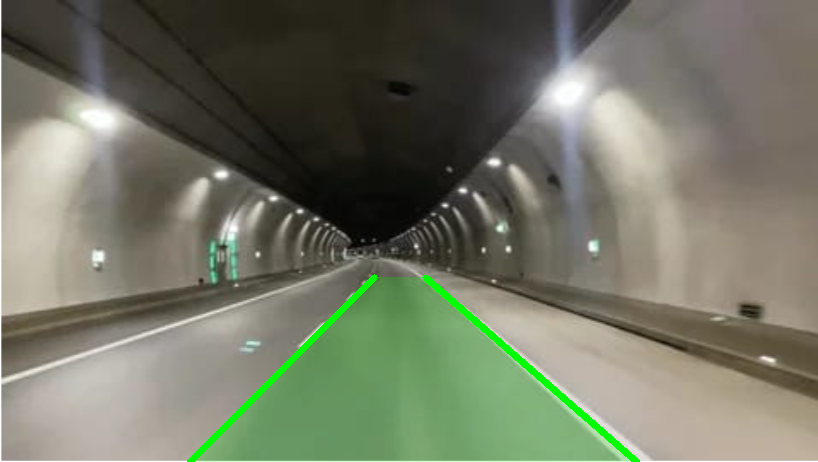
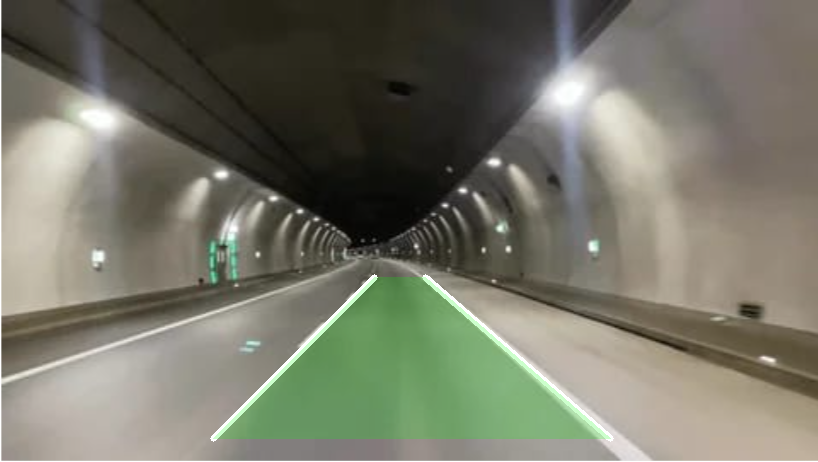
Complete Task 2 lane detection for all images

diff --git a/task2/lane_detection.py b/task2/lane_detection.py
@@ -1,120 +1,172 @@
 import cv2
 import numpy as np
+import os
 
-# Input image
-image = cv2.imread("input/road1.png")
+# Input and output folders
+input_folder = "input"
+output_folder = "output"
 
-if image is None:
-    print("Image not found!")
-    exit()
+# Create output folder if it doesn't exist
+os.makedirs(output_folder, exist_ok=True)
 
-# Make a copy for drawing
-result = image.copy()
+# Process all 10 road images
+for i in range(1, 11):
 
-# Convert image to grayscale
-gray = cv2.cvtColor(image, cv2.COLOR_BGR2GRAY)
+    extension = ".png" if i <= 8 else ".jpeg"
+    input_path = os.path.join(input_folder, f"road{i}{extension}")
+    output_path = os.path.join(output_folder, f"road{i}_detected.png")
 
-# Detect edges
-edges = cv2.Canny(gray, 50, 150)
+    print(f"\nProcessing road{i}.png...")
 
-# Get image dimensions
-height, width = image.shape[:2]
+    # Input image
+    image = cv2.imread(input_path)
 
-# Region of Interest (road area)
-mask = np.zeros_like(edges)
+    if image is None:
+        print(f"Image not found: {input_path}")
+        continue
 
-roi = np.array([[
-    (0, height),
-    (width, height),
-    (int(width * 0.60), int(height * 0.55)),
-    (int(width * 0.40), int(height * 0.55))
-]])
+    result = image.copy()
 
-cv2.fillPoly(mask, roi, 255)
+    # Grayscale
+    gray = cv2.cvtColor(image, cv2.COLOR_BGR2GRAY)
 
-# Keep only road-area edges
-roi_edges = cv2.bitwise_and(edges, mask)
+    # Edge detection
+    edges = cv2.Canny(gray, 50, 150)
 
-# Detect lane lines
-lines = cv2.HoughLinesP(
-    roi_edges,
-    1,
-    np.pi / 180,
-    threshold=50,
-    minLineLength=50,
-    maxLineGap=100
-)
+    # Image dimensions
+    height, width = image.shape[:2]
 
-left_lines = []
-right_lines = []
+    # Region of Interest
+    mask = np.zeros_like(edges)
 
-if lines is not None:
-    for line in lines:
-        x1, y1, x2, y2 = line
+    roi = np.array([[
+        (0, height),
+        (width, height),
+        (int(width * 0.60), int(height * 0.55)),
+        (int(width * 0.40), int(height * 0.55))
+    ]])
 
-        if x2 == x1:
-            continue
+    cv2.fillPoly(mask, roi, 255)
+    roi_edges = cv2.bitwise_and(edges, mask)
 
-        slope = (y2 - y1) / (x2 - x1)
+    # Hough Line Detection
+    lines = cv2.HoughLinesP(
+        roi_edges,
+        1,
+        np.pi / 180,
+        threshold=50,
+        minLineLength=50,
+        maxLineGap=100
+    )
 
-        if slope < -0.5:
-            left_lines.append((x1, y1, x2, y2))
+    left_lines = []
+    right_lines = []
 
-        elif slope > 0.5:
-            right_lines.append((x1, y1, x2, y2))
+    if lines is not None:
+        for line in lines:
+            x1, y1, x2, y2 = line
 
+            if x2 == x1:
+                continue
 
-def average_line(lines, height):
-    if not lines:
-        return None
+            slope = (y2 - y1) / (x2 - x1)
 
-    slopes = []
-    intercepts = []
+            if slope < -0.5:
+                left_lines.append((x1, y1, x2, y2))
 
-    for x1, y1, x2, y2 in lines:
-        slope = (y2 - y1) / (x2 - x1)
-        intercept = y1 - slope * x1
+            elif slope > 0.5:
+                right_lines.append((x1, y1, x2, y2))
 
-        slopes.append(slope)
-        intercepts.append(intercept)
+    # Calculate average lane line
+    def average_line(lines, height):
 
-    slope = np.mean(slopes)
-    intercept = np.mean(intercepts)
+        if not lines:
+            return None
 
-        # Line points
-    y1 = height
-    y2 = int(height * 0.60)
+        slopes = []
+        intercepts = []
 
-    x1 = int((y1 - intercept) / slope)
-    x2 = int((y2 - intercept) / slope)
+        for x1, y1, x2, y2 in lines:
 
-    return x1, y1, x2, y2
-# Get averaged left and right lane lines
-left_lane = average_line(left_lines, height)
-right_lane = average_line(right_lines, height)
+            if x2 == x1:
+                continue
 
-# Draw lanes and drivable area
-if left_lane is not None and right_lane is not None:
-    lx1, ly1, lx2, ly2 = left_lane
-    rx1, ry1, rx2, ry2 = right_lane
+            slope = (y2 - y1) / (x2 - x1)
+            intercept = y1 - slope * x1
 
-    # Draw two separate lane boundaries
-    cv2.line(result, (lx1, ly1), (lx2, ly2), (0, 255, 0), 6)
-    cv2.line(result, (rx1, ry1), (rx2, ry2), (0, 255, 0), 6)
+            slopes.append(slope)
+            intercepts.append(intercept)
 
-    # Drivable area - only translucent green
-    polygon = np.array([
-        [(lx1, ly1), (rx1, ry1),
-         (rx2, ry2), (lx2, ly2)]
-    ], dtype=np.int32)
+        if not slopes:
+            return None
 
-    overlay = result.copy()
-    cv2.fillPoly(overlay, polygon, (0, 255, 0))
+        slope = np.mean(slopes)
+        intercept = np.mean(intercepts)
 
-    result = cv2.addWeighted(overlay, 0.20, result, 0.80, 0)
+        y1 = int(height * 0.95)
+        y2 = int(height * 0.60)
 
-# Save result
-cv2.imwrite("output/road1_detected.png", result)
+        x1 = int((y1 - intercept) / slope)
+        x2 = int((y2 - intercept) / slope)
 
-print("Lane detection completed!")
-print("Output saved as output/road1_detected.png")
+        return x1, y1, x2, y2
+
+    # Get left and right lanes
+    left_lane = average_line(left_lines, height)
+    right_lane = average_line(right_lines, height)
+
+    # Draw lanes and drivable area
+    if left_lane is not None and right_lane is not None:
+
+        lx1, ly1, lx2, ly2 = left_lane
+        rx1, ry1, rx2, ry2 = right_lane
+
+        # Lane boundaries
+        cv2.line(
+            result,
+            (lx1, ly1),
+            (lx2, ly2),
+            (255, 255, 255),
+            5
+        )
+
+        cv2.line(
+            result,
+            (rx1, ry1),
+            (rx2, ry2),
+            (255, 255, 255),
+            5
+        )
+
+        # Drivable area
+        polygon = np.array([
+            [
+                (lx1, ly1),
+                (rx1, ry1),
+                (rx2, ry2),
+                (lx2, ly2)
+            ]
+        ], dtype=np.int32)
+
+        overlay = result.copy()
+
+        cv2.fillPoly(
+            overlay,
+            polygon,
+            (0, 255, 0)
+        )
+
+        result = cv2.addWeighted(
+            overlay,
+            0.20,
+            result,
+            0.80,
+            0
+        )
+
+    # Save output
+    cv2.imwrite(output_path, result)
+
+    print(f"Output saved: {output_path}")
+
+print("\nAll 10 images processed!")
